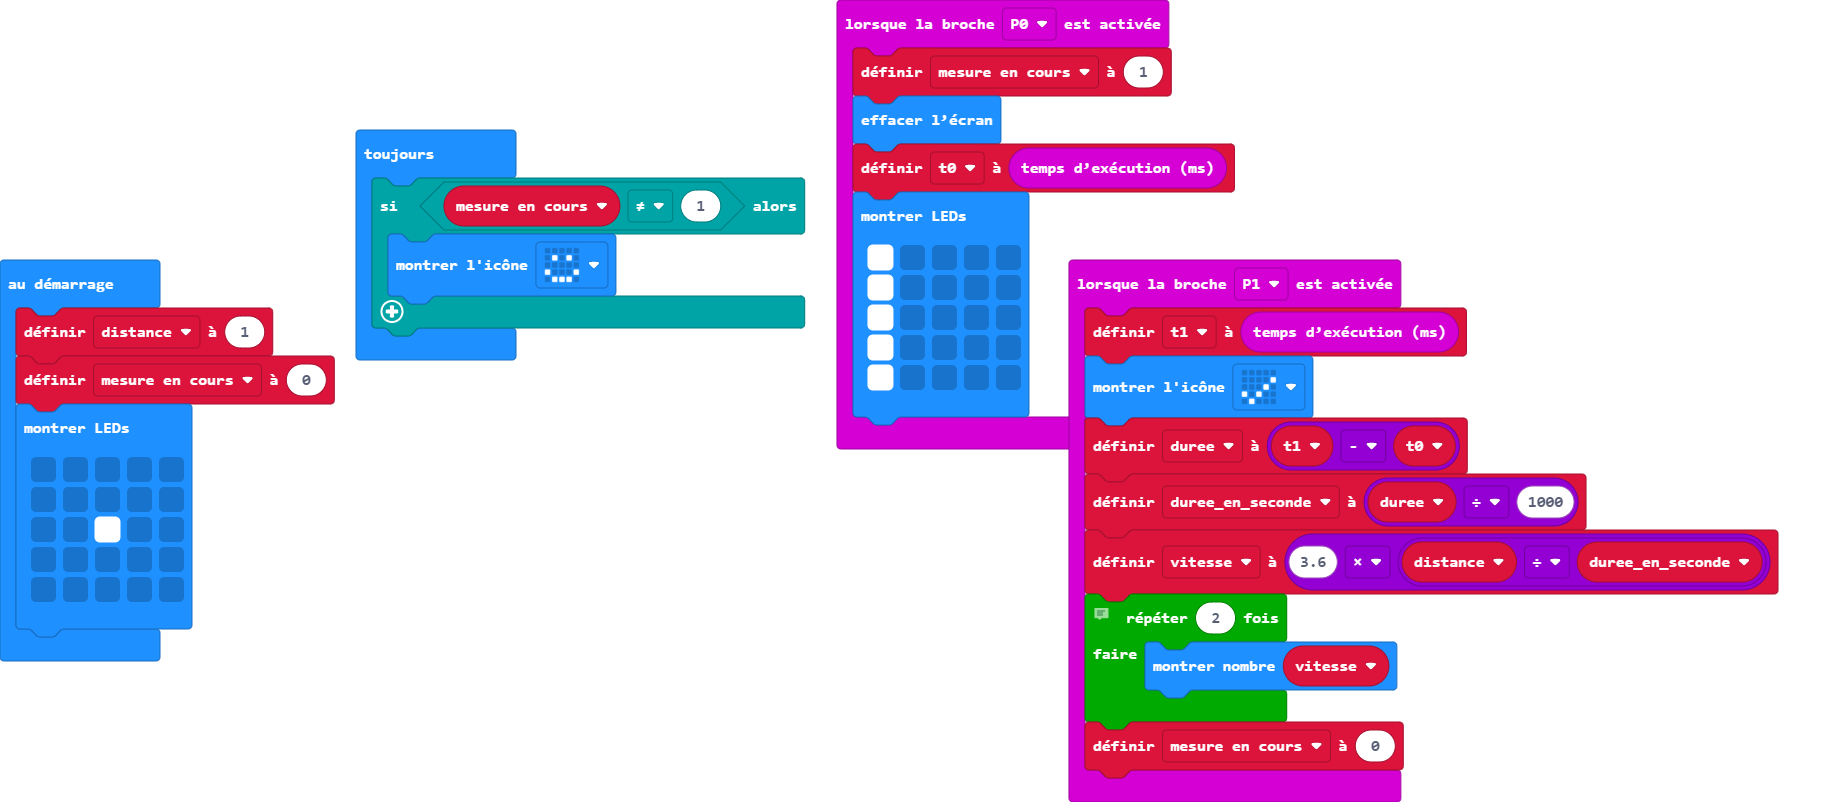
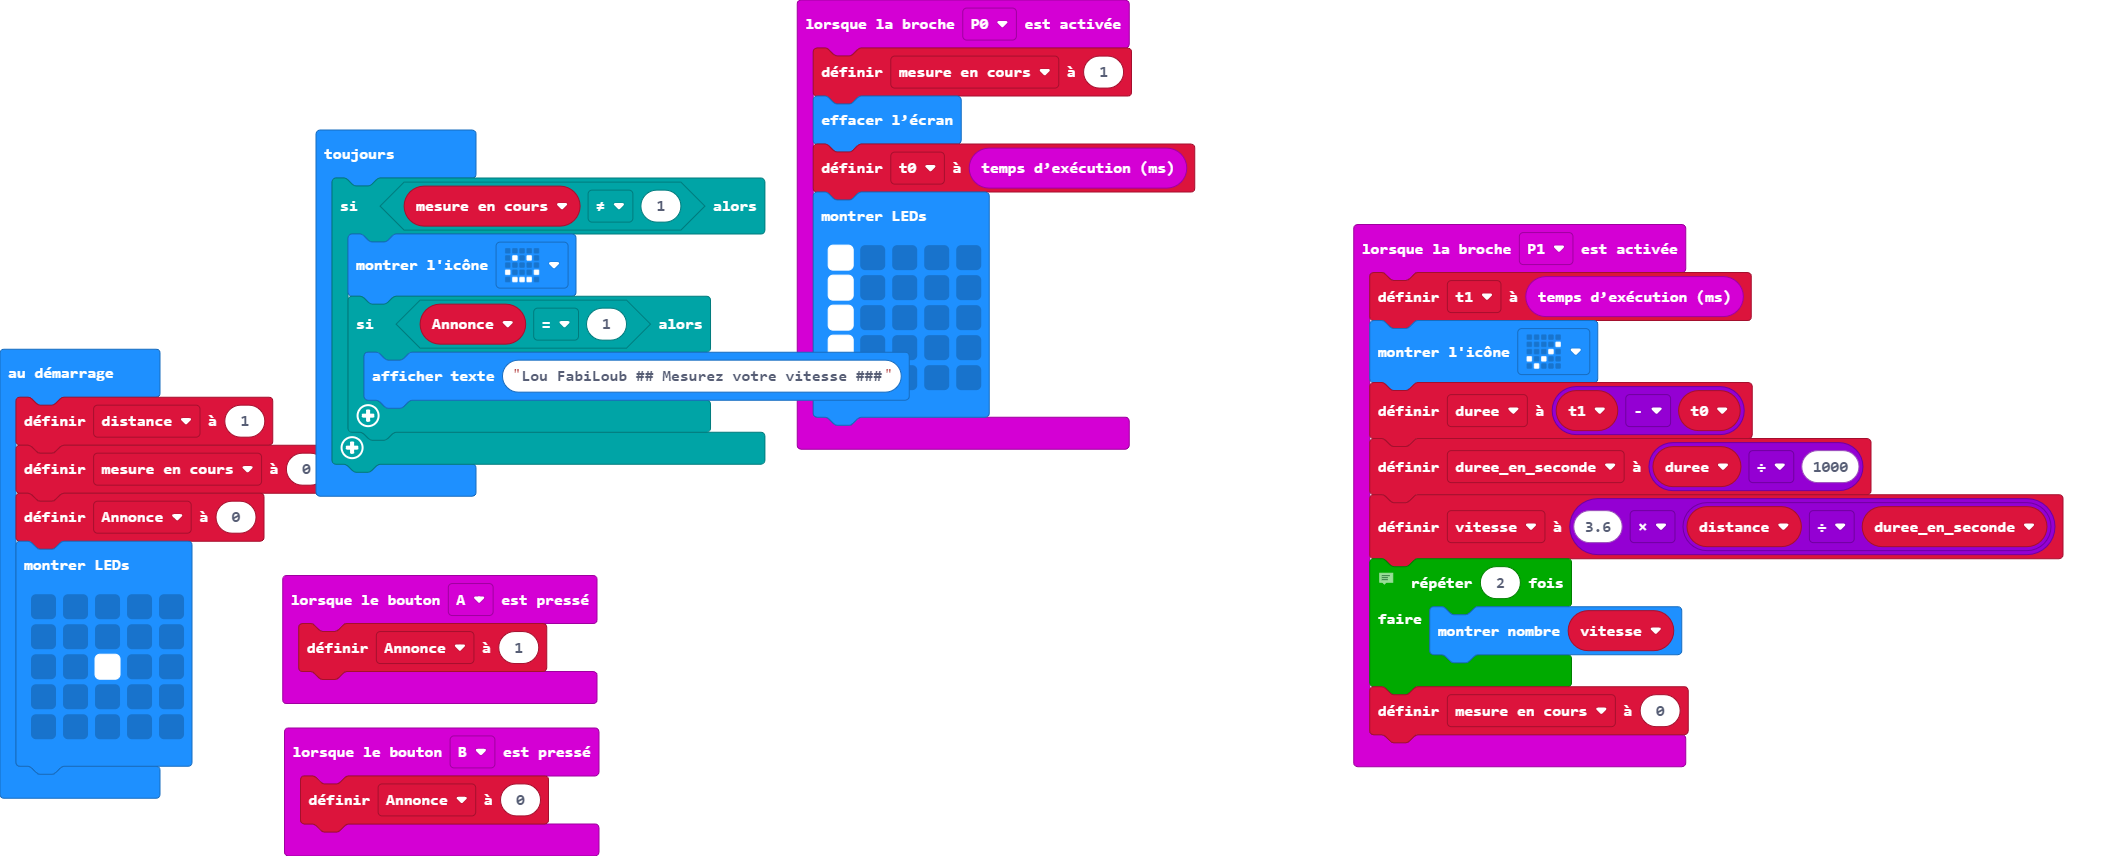
Ajout d'une annonce a la pression de A

diff --git a/main.ts b/main.ts
@@ -10,6 +10,12 @@ input.onPinPressed(TouchPin.P0, function () {
         # . . . .
         `)
 })
+input.onButtonPressed(Button.A, function () {
+    Annonce = 1
+})
+input.onButtonPressed(Button.B, function () {
+    Annonce = 0
+})
 input.onPinPressed(TouchPin.P1, function () {
     t1 = input.runningTime()
     basic.showIcon(IconNames.Yes)
@@ -27,10 +33,12 @@ let duree_en_seconde = 0
 let duree = 0
 let t1 = 0
 let t0 = 0
+let Annonce = 0
 let mesure_en_cours = 0
 let distance = 0
 distance = 1
 mesure_en_cours = 0
+Annonce = 0
 basic.showLeds(`
     . . . . .
     . . . . .
@@ -41,5 +49,8 @@ basic.showLeds(`
 basic.forever(function () {
     if (mesure_en_cours != 1) {
         basic.showIcon(IconNames.Happy)
+        if (Annonce == 1) {
+            basic.showString("Lou FabiLoub ## Mesurez votre vitesse ###")
+        }
     }
 })
